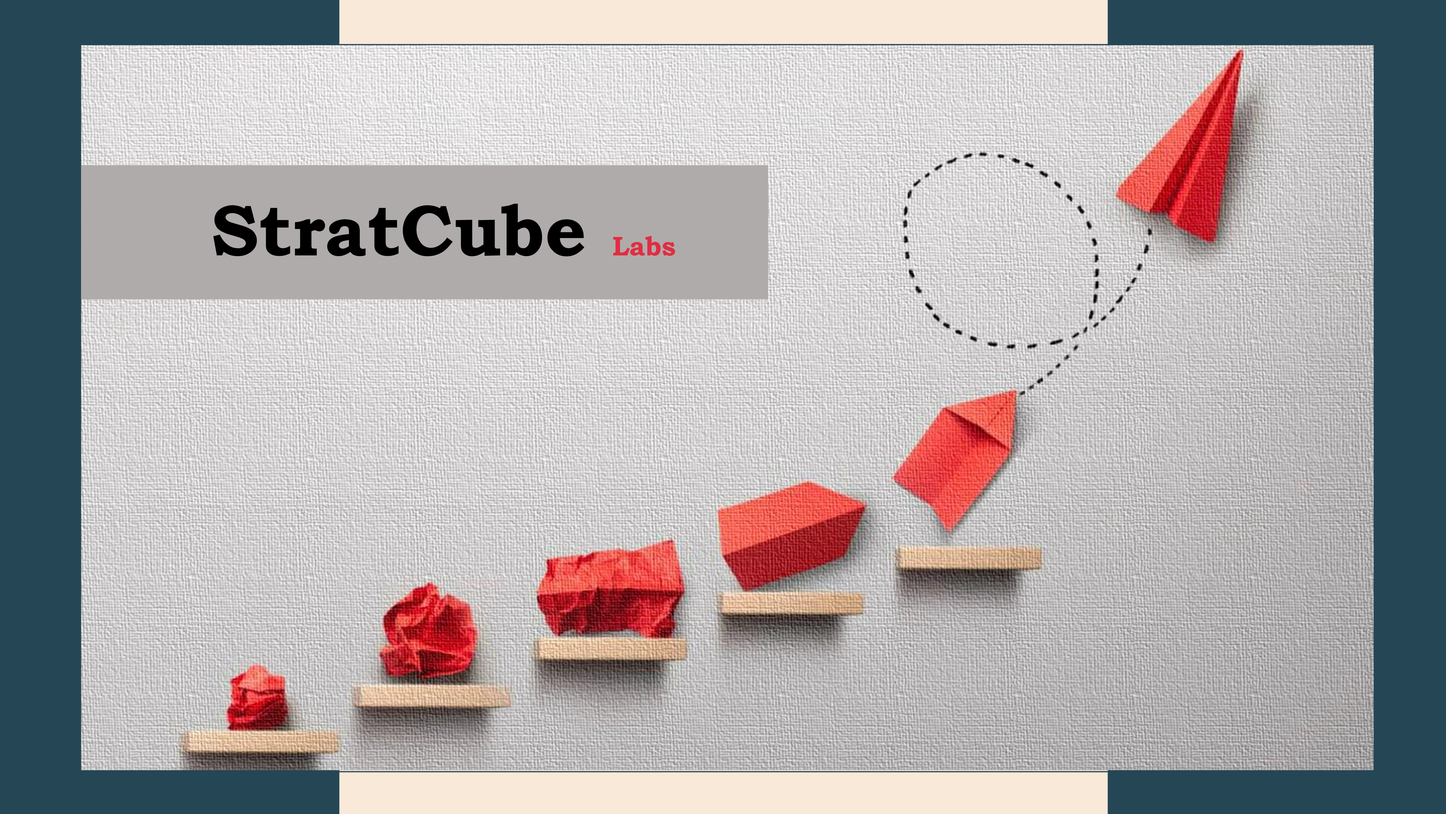
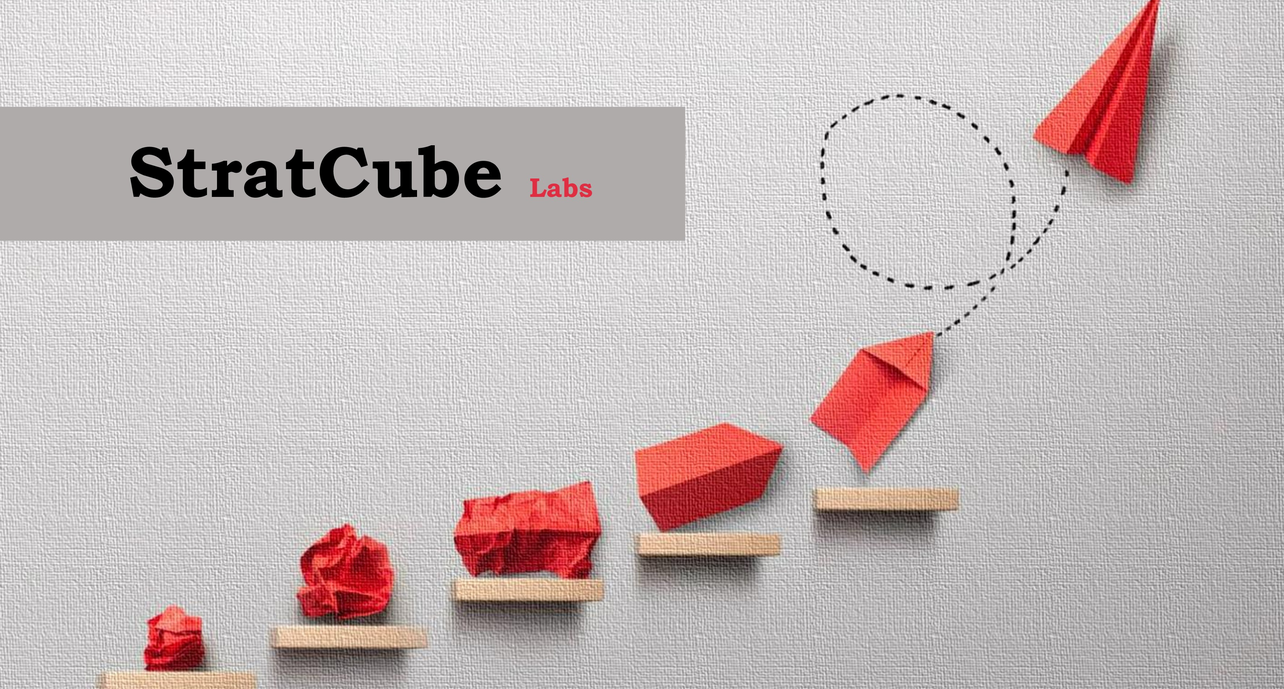
commit

diff --git a/index.html b/index.html
@@ -60,7 +60,7 @@
         <button class="btn btn-opacity-light mr-1">Get started</button>
         <button class="btn btn-opacity-success ml-1">Learn more</button>
       </div> -->
-      <img src="images/Banner.jpg" alt="" class="img-fluid">
+      <img src="images/Banner.jpg" alt="" class="img-fluid w-75">
     </div>
   </div>
   <div class="content-wrapper">
@@ -111,7 +111,7 @@
             <div class="features-width">
               <img src="images/TransAX.png" alt="" class="img-icons">
               <h5 class="py-3">TransAX</h5>
-              <h6 class=" pb-1 px-2 hover-text">Transaction Advisory <br>
+              <h6 class=" pb-1 px-2 hover-text" style="font-size: 14px;">Transaction Advisory <br>
                 Due Diligence Services<br>
                 Strategy Assessment<br>
                 Scenario Planning<br>
@@ -126,7 +126,7 @@
             <div class="features-width">
               <img src="images/SymbioTIx.png" alt="" class="img-icons">
               <h5 class="py-3">SymbioTIx</h5>
-              <h6 class=" pb-1 px-2 hover-text">Bidding Support <br>
+              <h6 class=" pb-1 px-2 hover-text" style="font-size: 14px;">Bidding Support <br>
                 Tender evaluation <br>
                 Competency gap analysis <br>
                 Market Analysis <br>
@@ -141,7 +141,7 @@
             <div class="features-width">
               <img src="images/AlliANAX.png" alt="" class="img-icons">
               <h5 class="py-3">AlliANAX </h5>
-              <h6 class="pb-1 px-2 hover-text">Partner Management <br>
+              <h6 class="pb-1 px-2 hover-text" style="font-size: 14px;">Partner Management <br>
                 Ecology Assessment <br>
                 Competency Gap Analysis <br>
                 Partner Shortlisting <br>
@@ -157,7 +157,7 @@
             <div class="features-width">
               <img src="images/IMPLAX.png" alt="" class="img-icons">
               <h5 class="py-3">IMPLAX</h5>
-              <h6 class="pb-1 px-2 hover-text">Execution Strategy <br>
+              <h6 class="pb-1 px-2 hover-text" style="font-size: 14px;">Execution Strategy <br>
                 Resource Analysis  <br>
                 Capability Building & upskilling  <br>
                 Performance Management  <br>
@@ -173,7 +173,7 @@
             <div class="features-width">
               <img src="images/StratIx.png" alt="" class="img-icons">
               <h5 class="py-3">StratIx</h5>
-              <h6 class=" pb-1 px-2 hover-text">Long term strategy <br>
+              <h6 class=" pb-1 px-2 hover-text" style="font-size: 14px;">Long term strategy <br>
                 Growth Scanning <br>
                 Trend Forecasting <br>
                 Driving Transition <br>
